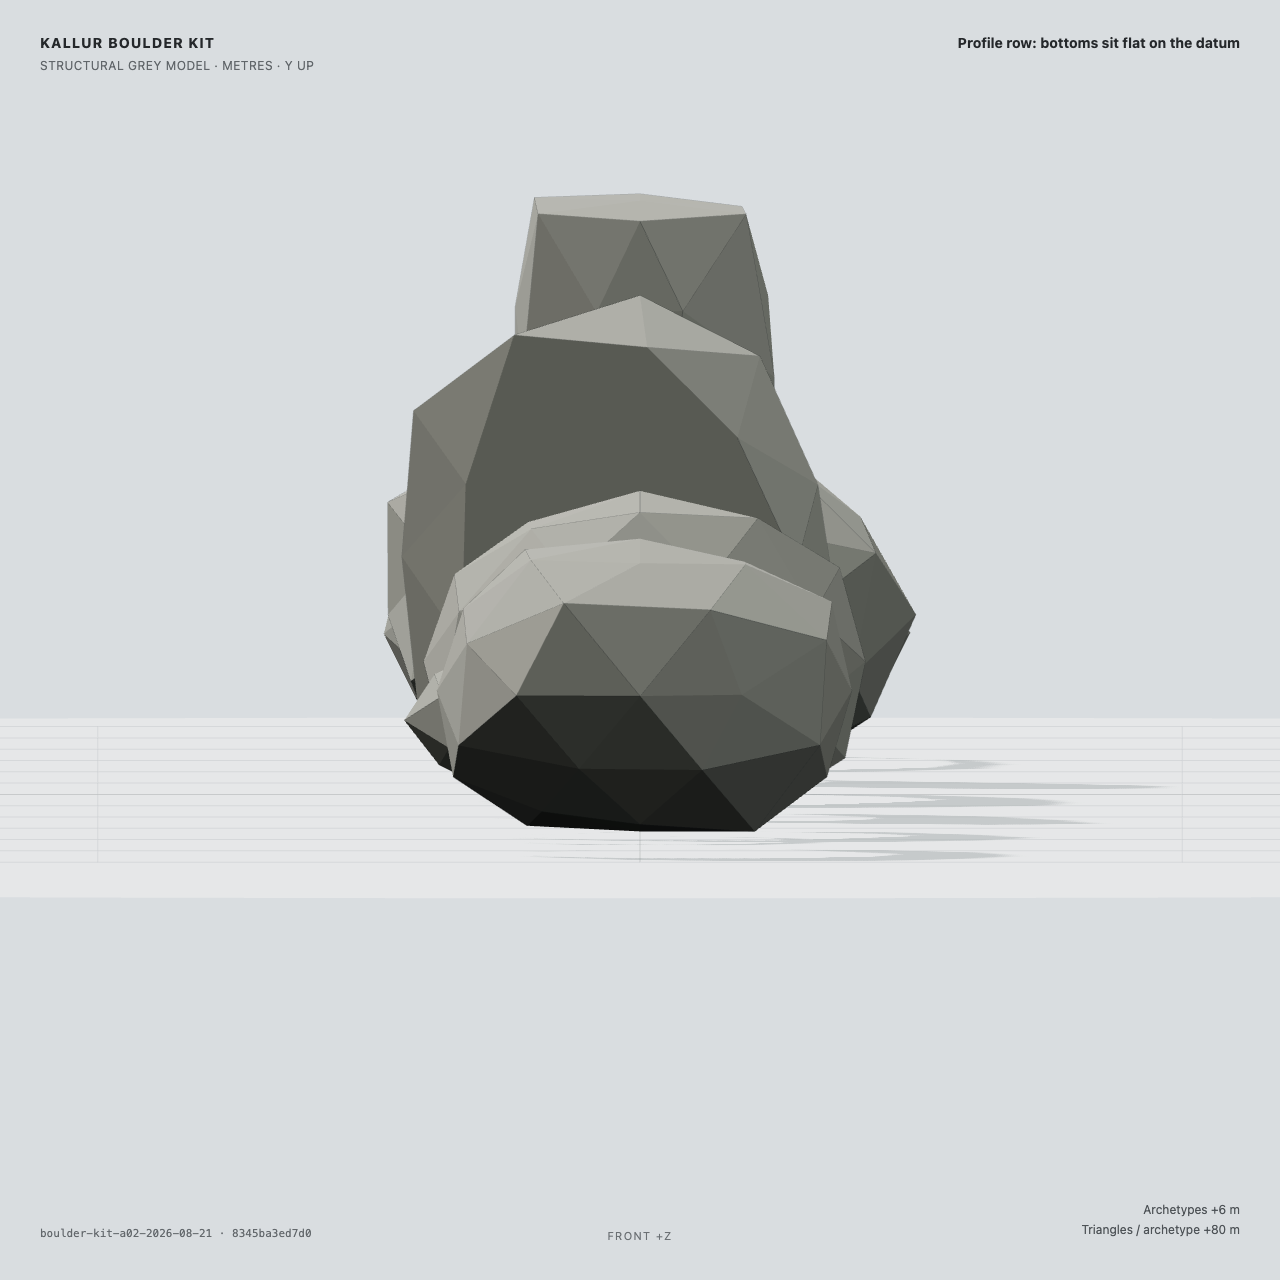
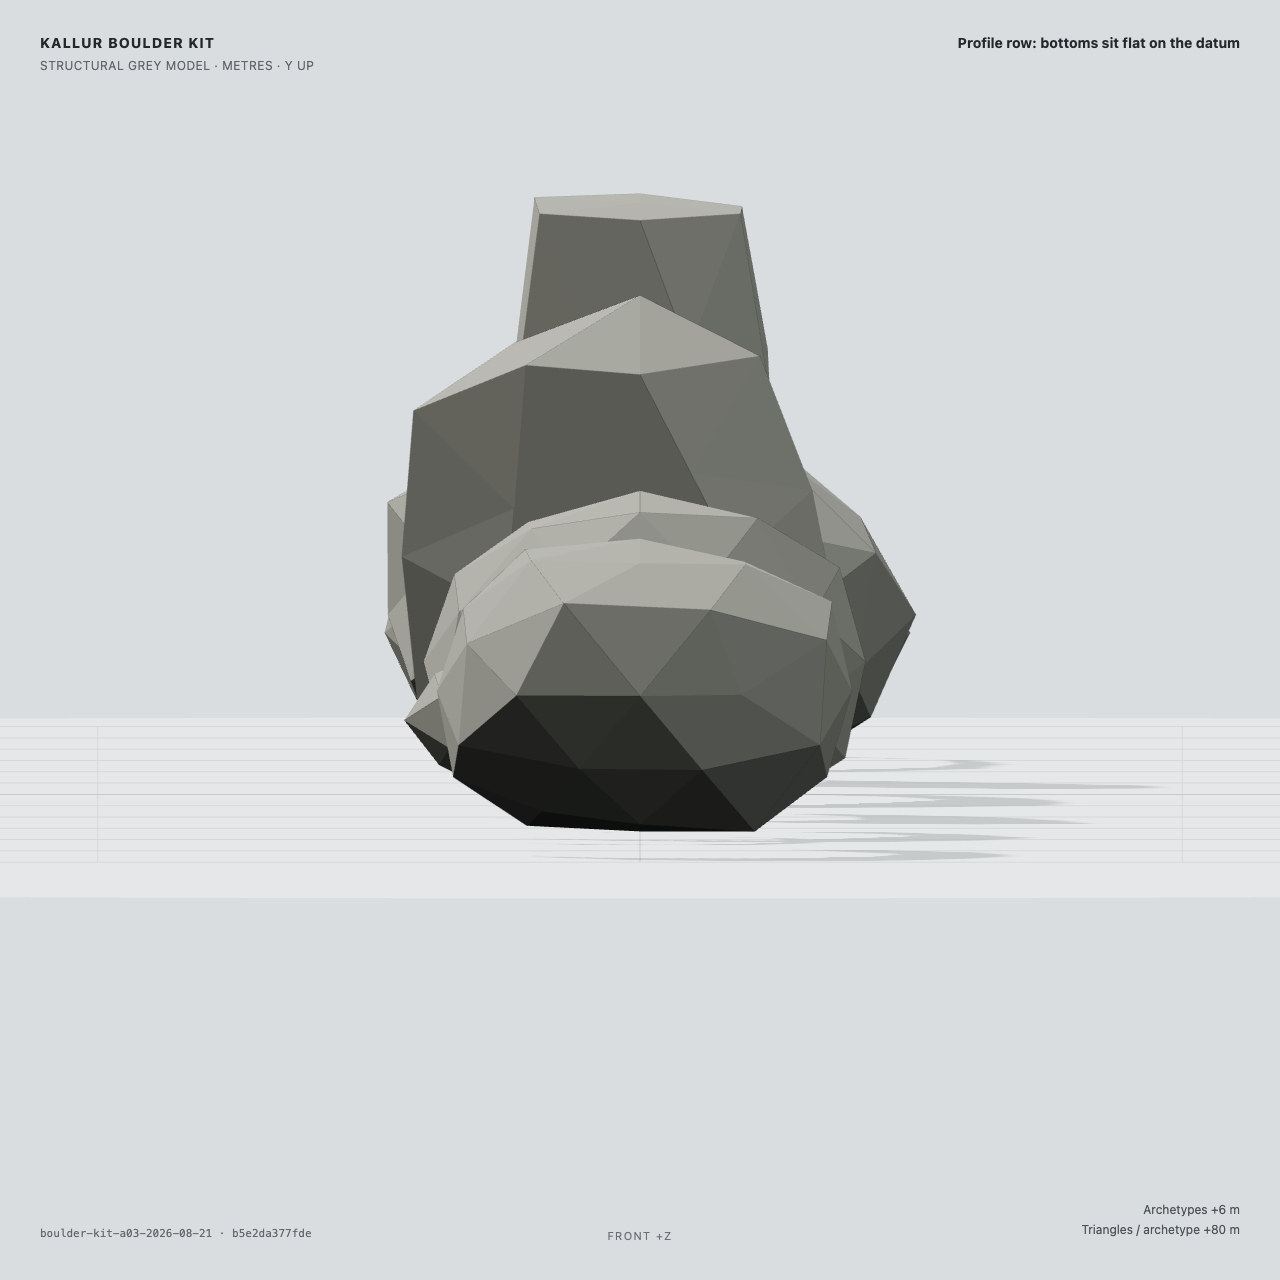
feat(kallur): boulders answer the wholeness verdict, round two
- kit a03: radial clamp in buildBlob - a vertex shrinks along its own ray
  to the nearest support plane, folded triangles impossible by construction
- crease-grouped normals in the renderer: positions weld, a corner averages
  only faces within 44 deg - split scars, column facets, slab edges are
  hard again (a full weld read as 'something oval')
- lichen: smooth value-noise blobs in the stone's own frame; the old
  floor() grid over world XZ projected bright squares onto sloped faces
- placement: stones keep full mass on slopes, folds, tops and hollows;
  per-stone attitude decides bedded-vs-wedged; the sink covers only the
  hovering downhill rim; slabs/loaves follow the contour, others keep
  author yaw; full archetype mix on slopes (column still needs level ground)
- path verge: hand-moved stones just past the walking corridor, in patches,
  inside the 1800-visible budget
- sun-shadow ortho box sized by worldRadius: a fixed +-70 left everything
  past 70 m of Kallur (r=118) outside the shadow map - far boulders could
  not cast; small worlds keep their texel density

diff --git a/games/make-a-mess/src/game/KallurBoulders.tsx b/games/make-a-mess/src/game/KallurBoulders.tsx
@@ -38,36 +38,90 @@ import { getPieceMaterial } from "./materialTextures.ts";
 
 let geometryCache: Map<string, BufferGeometry> | null = null;
 
-/** Weld the facet soup into shared vertices: polygonal silhouette, smooth shading. */
+/**
+ * Crease-aware shading: positions weld so curvature reads smooth, but a
+ * corner averages only the neighbouring faces within the crease angle —
+ * split scars, column facets and slab edges keep their HARD edges. A full
+ * weld melted every archetype into "something oval" (Igor).
+ */
+const CREASE_COSINE = Math.cos((44 * Math.PI) / 180);
+
 function weldedGeometry(archetypeId: string): BufferGeometry | undefined {
   if (!geometryCache) {
     geometryCache = new Map();
     for (const archetype of KALLUR_BOULDER_ARCHETYPES) {
       const source = buildBoulderArchetype(archetype);
-      const index = new Map<string, number>();
-      const positions: number[] = [];
-      const remap: number[] = [];
-      source.vertices.forEach(([x, y, z]) => {
+      // Weld positions to recover adjacency.
+      const slotByKey = new Map<string, number>();
+      const welded: number[][] = [];
+      const remap = source.vertices.map(([x, y, z]) => {
         const key = `${x.toFixed(4)}:${y.toFixed(4)}:${z.toFixed(4)}`;
-        let slot = index.get(key);
+        let slot = slotByKey.get(key);
         if (slot === undefined) {
-          slot = positions.length / 3;
-          positions.push(x, y, z);
-          index.set(key, slot);
+          slot = welded.length;
+          welded.push([x, y, z]);
+          slotByKey.set(key, slot);
         }
-        remap.push(slot);
+        return slot;
       });
-      const indices: number[] = [];
-      for (const [a, b, c] of source.triangles) {
-        indices.push(remap[a], remap[b], remap[c]);
-      }
+      // Face normals + vertex->face adjacency.
+      const faceNormals: number[][] = [];
+      const facesByVertex = new Map<number, number[]>();
+      source.triangles.forEach(([a, b, c], face) => {
+        const va = welded[remap[a]];
+        const vb = welded[remap[b]];
+        const vc = welded[remap[c]];
+        const ab = [vb[0] - va[0], vb[1] - va[1], vb[2] - va[2]];
+        const ac = [vc[0] - va[0], vc[1] - va[1], vc[2] - va[2]];
+        const cross = [
+          ab[1] * ac[2] - ab[2] * ac[1],
+          ab[2] * ac[0] - ab[0] * ac[2],
+          ab[0] * ac[1] - ab[1] * ac[0],
+        ];
+        const length = Math.hypot(...cross) || 1;
+        faceNormals.push([cross[0] / length, cross[1] / length, cross[2] / length]);
+        for (const corner of [a, b, c]) {
+          const slot = remap[corner];
+          const bucket = facesByVertex.get(slot) ?? [];
+          bucket.push(face);
+          facesByVertex.set(slot, bucket);
+        }
+      });
+      // Emit soup with per-corner crease-grouped normals.
+      const positions = new Float32Array(source.triangles.length * 9);
+      const normals = new Float32Array(source.triangles.length * 9);
+      source.triangles.forEach(([a, b, c], face) => {
+        const faceNormal = faceNormals[face];
+        [a, b, c].forEach((corner, cornerIndex) => {
+          const slot = remap[corner];
+          const vertex = welded[slot];
+          let nx = 0;
+          let ny = 0;
+          let nz = 0;
+          for (const neighbour of facesByVertex.get(slot) ?? []) {
+            const candidate = faceNormals[neighbour];
+            const agreement = faceNormal[0] * candidate[0] +
+              faceNormal[1] * candidate[1] +
+              faceNormal[2] * candidate[2];
+            if (agreement >= CREASE_COSINE) {
+              nx += candidate[0];
+              ny += candidate[1];
+              nz += candidate[2];
+            }
+          }
+          const length = Math.hypot(nx, ny, nz) || 1;
+          const write = face * 9 + cornerIndex * 3;
+          positions[write] = vertex[0];
+          positions[write + 1] = vertex[1];
+          positions[write + 2] = vertex[2];
+          normals[write] = nx / length;
+          normals[write + 1] = ny / length;
+          normals[write + 2] = nz / length;
+        });
+      });
       const geometry = new BufferGeometry();
-      geometry.setAttribute(
-        "position",
-        new BufferAttribute(new Float32Array(positions), 3),
-      );
-      geometry.setIndex(new BufferAttribute(new Uint16Array(indices), 1));
-      geometry.computeVertexNormals();
+      geometry.setAttribute("position", new BufferAttribute(positions, 3));
+      geometry.setAttribute("normal", new BufferAttribute(normals, 3));
       geometry.computeBoundingSphere();
       geometryCache.set(archetype.id, geometry);
     }
@@ -109,32 +163,52 @@ function getBoulderMaterial(): MeshStandardMaterial {
     shader.vertexShader = shader.vertexShader
       .replace(
         "#include <common>",
-        "#include <common>\nvarying float vBoulderLocalY;",
+        "#include <common>\nvarying vec3 vBoulderLocal;",
       )
       .replace(
         "#include <begin_vertex>",
-        "#include <begin_vertex>\nvBoulderLocalY = position.y;",
+        "#include <begin_vertex>\nvBoulderLocal = position.xyz;",
       );
     shader.fragmentShader = shader.fragmentShader
       .replace(
         "#include <common>",
-        "#include <common>\nvarying float vBoulderLocalY;",
+        `#include <common>
+varying vec3 vBoulderLocal;
+float mamBoulderHash(vec2 p) {
+  return fract(sin(dot(p, vec2(127.1, 311.7))) * 43758.5453);
+}
+float mamBoulderNoise(vec2 p) {
+  vec2 cell = floor(p);
+  vec2 f = fract(p);
+  f = f * f * (3.0 - 2.0 * f);
+  return mix(
+    mix(mamBoulderHash(cell), mamBoulderHash(cell + vec2(1.0, 0.0)), f.x),
+    mix(mamBoulderHash(cell + vec2(0.0, 1.0)), mamBoulderHash(cell + vec2(1.0, 1.0)), f.x),
+    f.y);
+}`,
       )
       .replace(
         "#include <color_fragment>",
         `#include <color_fragment>
-// Albedo masks only - light keeps its owner. Lichen crowns: the bright
-// speckle of the reference (bible III), on upward faces of the tops.
+// Albedo masks only - light keeps its owner. Lichen: SMOOTH blobs in the
+// stone's OWN frame. The old floor() grid over world XZ projected bright
+// squares onto sloped faces and stretched them into unrelated patches;
+// value noise in local coordinates cannot do either by construction.
 vec3 boulderWorldNormal = inverseTransformDirection(normalize(vNormal), viewMatrix);
-float boulderLichenHash = fract(sin(dot(floor(vMaterialCoordinate.xz * 2.7),
-  vec2(127.1, 311.7))) * 43758.5453);
-float boulderLichen = smoothstep(0.6, 0.92, boulderWorldNormal.y)
-  * smoothstep(0.45, 0.8, boulderLichenHash)
-  * smoothstep(0.2, 0.5, vBoulderLocalY);
-diffuseColor.rgb = mix(diffuseColor.rgb, vec3(0.398, 0.415, 0.373), boulderLichen * 0.5);
+vec2 boulderLichenPlane = vBoulderLocal.xz * 3.1
+  + vec2(vBoulderLocal.y * 1.7, vBoulderLocal.y * -1.1);
+float boulderLichenBlob = mamBoulderNoise(boulderLichenPlane)
+  + mamBoulderNoise(boulderLichenPlane * 2.7) * 0.35;
+// A slow world-space seed so neighbouring instances of one archetype do
+// not wear the same coat; smooth, so it cannot re-introduce squares.
+float boulderSeed = mamBoulderNoise(vMaterialCoordinate.xz * 0.13);
+float boulderLichen = smoothstep(0.92, 1.12, boulderLichenBlob + boulderSeed * 0.4)
+  * smoothstep(0.45, 0.85, boulderWorldNormal.y)
+  * smoothstep(0.15, 0.45, vBoulderLocal.y);
+diffuseColor.rgb = mix(diffuseColor.rgb, vec3(0.315, 0.33, 0.295), boulderLichen * 0.4);
 // The sod line: the base converges to the turf's colour statistics, so
 // the stone SITS in the hill instead of resting on it.
-float boulderSod = smoothstep(0.3, 0.06, vBoulderLocalY)
+float boulderSod = smoothstep(0.3, 0.06, vBoulderLocal.y)
   * smoothstep(0.25, 0.75, boulderWorldNormal.y * 0.5 + 0.5);
 diffuseColor.rgb = mix(diffuseColor.rgb, vec3(0.153, 0.162, 0.061), boulderSod * 0.55);
 // Beach boulders darken below the same waterline law as the sand.

diff --git a/games/make-a-mess/src/content/scenes/kallur/kallurBoulderPlacements.ts b/games/make-a-mess/src/content/scenes/kallur/kallurBoulderPlacements.ts
@@ -52,12 +52,14 @@ export function kallurBoulderArchetypeFor(stone: {
 }, slope = 0): string {
   if (stone.size < 0.45) return "loaf";
   const pick = (stone.tone * 13.7) % 1;
-  if (slope > 0.8) return pick < 0.55 ? "rounded" : "slab";
-  if (pick < 0.34) return "rounded";
-  if (pick < 0.55) return "slab";
-  if (pick < 0.7) return "twin";
-  if (pick < 0.85) {
-    if (slope < 0.35 && stone.size < 1.4) return "column";
+  // Slopes carry the full mix — during the mountain's formation stones
+  // stayed on slopes, folds, tops and hollows alike (Igor, 21.08). The one
+  // true physical gate: a columnar stub cannot balance on steep ground.
+  if (pick < 0.26) return "rounded";
+  if (pick < 0.48) return "slab";
+  if (pick < 0.62) return "twin";
+  if (pick < 0.8) {
+    if (slope < 0.5 && stone.size < 1.4) return "column";
     return "split";
   }
   return "split";
@@ -85,29 +87,36 @@ export function kallurBoulderPlacements(): readonly KallurBoulderPlacement[] {
     const crownHeight = stone.size * (1 - stone.embed) * 0.9 + 0.15;
     const archetype = kallurBoulderArchetypeFor(stone, slope);
     const nominalHeight = archetypeHeights.get(archetype) ?? 1;
-    // Slope physics: a boulder on a hillside GROWS INTO it — the steeper
-    // the ground, the deeper it sinks (only a low back shows), and its
-    // base tilts to the terrain normal so nothing balances on an edge.
-    const slopeSink = Math.min(0.6, slope * 0.4) * stone.size;
-    const scaleY = Math.max(
-      0.2,
-      (crownHeight + 0.35 - slopeSink * 0.5) / nominalHeight,
-    );
     const scaleXZ = stone.size * 0.98;
-    const tiltLimit = 0.45;
+    const scaleY = Math.max(0.3, (crownHeight + 0.35) / nominalHeight);
+    // Attitude: each stone decides HOW it stayed on the hill. High
+    // attitude — it lies bedded along the ground; low attitude — it sits
+    // nearly upright, wedged into a fold, and buries deeper instead. The
+    // impossible thing was never "a stone on a slope" — it was a rim
+    // hovering over the falling ground, and that is what the sink covers.
+    const attitude = 0.35 + ((stone.tone * 29.3) % 1) * 0.65;
+    const tiltLimit = 0.6;
     const tiltX = Math.max(-tiltLimit, Math.min(tiltLimit,
-      Math.atan(gradient.z) + (stone.tone - 0.5) * 0.12));
+      Math.atan(gradient.z) * attitude + (stone.tone - 0.5) * 0.16));
     const tiltZ = Math.max(-tiltLimit, Math.min(tiltLimit,
-      -Math.atan(gradient.x) + (((stone.tone * 7) % 1) - 0.5) * 0.12));
-    // Long axis along the contour on slopes: yaw follows the level line.
-    const contourYaw = slope > 0.5
-      ? Math.atan2(gradient.x, -gradient.z)
+      -Math.atan(gradient.x) * attitude + (((stone.tone * 7) % 1) - 0.5) * 0.16));
+    // Whatever grade the tilt did not absorb goes under the turf, so no
+    // downhill rim hangs in the air — the fix aims at the rim, not at
+    // the slope, and the stone keeps its full mass above ground.
+    const residualGrade = slope * (1 - attitude * 0.85);
+    const slopeSink = Math.min(0.9,
+      residualGrade * scaleXZ * 0.55 + slope * 0.08 * stone.size);
+    // Slabs and loaves lie along the contour line; every other form keeps
+    // its author yaw — a hillside of combed stones reads as one gesture.
+    const liesAlong = archetype === "slab" || archetype === "loaf";
+    const yaw = liesAlong && slope > 0.55
+      ? Math.atan2(gradient.x, -gradient.z) + (stone.tone - 0.5) * 0.7
       : stone.yaw;
     placements.push({
       id: stone.id,
       archetype,
       position: [stone.x, collarTop - 0.35 - slopeSink, stone.z],
-      rotation: [tiltX, contourYaw, tiltZ],
+      rotation: [tiltX, yaw, tiltZ],
       scale: [scaleXZ, scaleY, scaleXZ * 0.82],
       tint: tintFor(stone.tone),
     });

diff --git a/games/make-a-mess/src/content/objects/kallur/kallurBoulderKitObject.ts b/games/make-a-mess/src/content/objects/kallur/kallurBoulderKitObject.ts
@@ -202,28 +202,30 @@ function buildBlob(
   const base = icosphere();
   const vertices = base.vertices.map((direction) => {
     const bump = 1 + lobeDisplacement(direction, seed) * noise;
-    let vertex: ObjectPoint = [
+    const free: ObjectPoint = [
       direction[0] * bump * scale[0],
       direction[1] * bump * scale[1],
       direction[2] * bump * scale[2],
     ];
+    // RADIAL support clamp — the potato cut. Projection clamping folded
+    // triangles wherever two planes met (inverted normals, glowing
+    // facets); shrinking the vertex along its own ray toward the centre
+    // cannot fold anything, and the cut flats get naturally rounded rims.
+    const radius = Math.hypot(free[0], free[1], free[2]) || 1e-9;
+    const ray: ObjectPoint = [free[0] / radius, free[1] / radius, free[2] / radius];
+    let clamped = radius;
     for (const clamp of clamps) {
-      const along = vertex[0] * clamp.direction[0] +
-        vertex[1] * clamp.direction[1] +
-        vertex[2] * clamp.direction[2];
-      if (along > clamp.distance) {
-        const excess = along - clamp.distance;
-        vertex = [
-          vertex[0] - clamp.direction[0] * excess,
-          vertex[1] - clamp.direction[1] * excess,
-          vertex[2] - clamp.direction[2] * excess,
-        ];
+      const along = ray[0] * clamp.direction[0] +
+        ray[1] * clamp.direction[1] +
+        ray[2] * clamp.direction[2];
+      if (along > 1e-4) {
+        clamped = Math.min(clamped, clamp.distance / along);
       }
     }
     return [
-      vertex[0] + offset[0],
-      vertex[1] + offset[1],
-      vertex[2] + offset[2],
+      ray[0] * clamped + offset[0],
+      ray[1] * clamped + offset[1],
+      ray[2] * clamped + offset[2],
     ] as ObjectPoint;
   });
   return { vertices, faces: base.faces };
@@ -283,7 +285,7 @@ export const kallurBoulderKitParts: readonly ObjectLabPart[] = parts;
 
 export const kallurBoulderKitObject: ObjectLabModel = {
   id: "kallur-boulder-kit",
-  revision: "boulder-kit-a02-2026-08-21",
+  revision: "boulder-kit-a03-2026-08-21",
   title: "Kallur boulder kit",
   units: "metres",
   coordinates: { up: "+Y", front: "+Z", origin: "ground-centre" },

diff --git a/games/make-a-mess/src/content/scenes/kallur/kallurStoneField.ts b/games/make-a-mess/src/content/scenes/kallur/kallurStoneField.ts
@@ -194,6 +194,50 @@ export function generateKallurStones(
     place(index, x, z, size, 0.74);
   }
 
+  // The path verge (Igor, 21.08): people tramping the trail between the
+  // mountains moved the stones aside BY HAND — so just past the walking
+  // corridor lies a broken edge of small and middling boulders. Only the
+  // sizes a person shifts (≤ ~0.9 m), in patches, never a tidy lining.
+  let pathLength = 0;
+  const cumulative: number[] = [];
+  for (let index = 1; index < KALLUR_PATH.length; index += 1) {
+    const [ax, , az] = KALLUR_PATH[index - 1];
+    const [bx, , bz] = KALLUR_PATH[index];
+    pathLength += Math.hypot(bx - ax, bz - az);
+    cumulative.push(pathLength);
+  }
+  for (let index = 50000; index < 50300; index += 1) {
+    const along = hash(index, 1) * pathLength;
+    let segment = 0;
+    while (segment < cumulative.length - 1 && cumulative[segment] < along) {
+      segment += 1;
+    }
+    const start = segment === 0 ? 0 : cumulative[segment - 1];
+    const [ax, , az] = KALLUR_PATH[segment];
+    const [bx, , bz] = KALLUR_PATH[segment + 1];
+    const span = Math.max(1e-9, cumulative[segment] - start);
+    const t = (along - start) / span;
+    const px = ax + (bx - ax) * t;
+    const pz = az + (bz - az) * t;
+    // Patchy, not uniform: the verge shows where the ground actually
+    // offered stones to move.
+    const verge = 0.5 + 0.5 * valueNoise(px / 9, pz / 9, 91);
+    // 0.55 keeps the whole field inside the 1800-visible piece budget
+    // (0.8 landed 90 verge stones and blew it by 22).
+    if (hash(index, 11) > verge * 0.55) continue;
+    const length = Math.hypot(bx - ax, bz - az) || 1;
+    const side = hash(index, 2) < 0.5 ? -1 : 1;
+    const size = 0.3 + hash(index, 3) * 0.6;
+    const lateral = PATH_CLEARANCE + size / 2 + 0.25 + hash(index, 4) * 2.1;
+    place(
+      index,
+      px + (-(bz - az) / length) * side * lateral,
+      pz + ((bx - ax) / length) * side * lateral,
+      size,
+      0.4,
+    );
+  }
+
   return stones;
 }
 

diff --git a/games/make-a-mess/src/game/WorldEnvironment.tsx b/games/make-a-mess/src/game/WorldEnvironment.tsx
@@ -340,6 +340,9 @@ export function DayNightCycle({
   const time = useRef(TIME_OF_DAY_TARGETS.day);
   const appliedSnapVersion = useRef(snapVersion);
   const fortress = theme === "fortress";
+  // Sun-shadow ortho half-extent: sized by the world, floored at the old
+  // constants so small islands keep their texel density.
+  const shadowHalf = Math.max(fortress ? 95 : 70, (worldRadius ?? 58) * 1.08);
   // Moonlight is the one key this file still authors: there is no lunar
   // ephemeris here, so below the horizon the model has nothing left to answer.
   const moonColor = useMemo(() => new Color("#8fa5c8"), []);
@@ -1232,11 +1235,14 @@ export function DayNightCycle({
         shadow-mapSize-width={2048}
         shadow-mapSize-height={2048}
         shadow-camera-near={1}
-        shadow-camera-far={170}
-        shadow-camera-left={fortress ? -95 : -70}
-        shadow-camera-right={fortress ? 95 : 70}
-        shadow-camera-top={fortress ? 95 : 70}
-        shadow-camera-bottom={fortress ? -95 : -70}
+        // The frustum must cover the WHOLE island: a fixed ±70 box left
+        // everything past 70 m of Kallur (r=118) outside the shadow map —
+        // the lighthouse cast, the boulders around it could not.
+        shadow-camera-far={Math.max(170, (worldRadius ?? 58) * 1.7 + 60)}
+        shadow-camera-left={-shadowHalf}
+        shadow-camera-right={shadowHalf}
+        shadow-camera-top={shadowHalf}
+        shadow-camera-bottom={-shadowHalf}
         shadow-bias={-0.00035}
         shadow-normalBias={0.024}
         // Soft PCF at 3.2 dissolved into fog as "no shadows". Radius under 2
